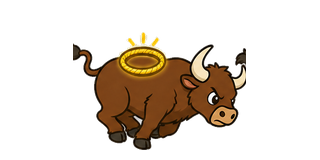
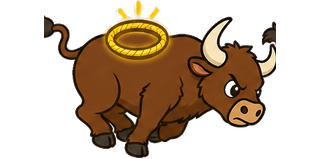
Keep Stampede Bull run frames at stun standing size.
Boss charge art was framed to the smaller trail-bull body height, so the
bull visibly shrank whenever he switched from stun idle into the run cycle.
Bake the boss run strip to the same ~159px footprint as the standing art
and keep sprite scale at one while charging or stunned.

diff --git a/tools/build_bull_frames.py b/tools/build_bull_frames.py
@@ -2,7 +2,8 @@
 
 Trail bull standing has no painted lasso ring. Boss standing stays
 `assets/world/boss_stampede_bull.png` (ring kept for the stampede fight).
-Run cycles are 4-frame strips keyed and framed to 320×160.
+Trail run cycles frame to 320×160 at trail body height. Boss run frames
+fill nearly the full canvas so they match the stun/idle standing size.
 
     python tools/build_bull_frames.py
 """
@@ -18,13 +19,24 @@ ROOT = Path(__file__).resolve().parent.parent
 SRC = ROOT / "assets" / "source" / "bull"
 OUT = ROOT / "assets" / "world"
 
-CANVAS = (320, 160)
-BASELINE = 150
-BODY_H = 118
+# Trail bulls (and cave lizards) share this smaller chibi footprint.
+TRAIL_CANVAS = (320, 160)
+TRAIL_BASELINE = 150
+TRAIL_BODY_H = 118
+# Stampede Bull stun art fills 320×159; run frames must match that on-screen size.
+BOSS_CANVAS = (320, 159)
+BOSS_BASELINE = 158
+BOSS_BODY_H = 158
 
 
-def _frame(img: Image.Image) -> Image.Image:
-	return frame_sprite(img, canvas=CANVAS, target_h=BODY_H, baseline=BASELINE)
+def _frame(
+	img: Image.Image,
+	*,
+	canvas: tuple[int, int],
+	target_h: int,
+	baseline: int,
+) -> Image.Image:
+	return frame_sprite(img, canvas=canvas, target_h=target_h, baseline=baseline)
 
 
 def _column_density(im: Image.Image, *, win: int = 8) -> list[float]:
@@ -55,7 +67,14 @@ def _valley_cuts(im: Image.Image, count: int = 4) -> list[int]:
 	return cuts
 
 
-def _save_strip(src_name: str, out_prefix: str) -> None:
+def _save_strip(
+	src_name: str,
+	out_prefix: str,
+	*,
+	canvas: tuple[int, int],
+	target_h: int,
+	baseline: int,
+) -> None:
 	keyed = cutout(str(SRC / src_name), level=200, sat=25)
 	cuts = _valley_cuts(keyed, 4)
 	inset = 10
@@ -67,7 +86,7 @@ def _save_strip(src_name: str, out_prefix: str) -> None:
 		if bbox:
 			cell = cell.crop(bbox)
 		path = OUT / f"{out_prefix}_run_{i}.png"
-		_frame(cell).save(path)
+		_frame(cell, canvas=canvas, target_h=target_h, baseline=baseline).save(path)
 		print("wrote", path.relative_to(ROOT))
 
 
@@ -80,11 +99,28 @@ def build() -> None:
 	if bbox:
 		stand = stand.crop(bbox)
 	stand_path = OUT / "trail_bull.png"
-	_frame(stand).save(stand_path)
+	_frame(
+		stand,
+		canvas=TRAIL_CANVAS,
+		target_h=TRAIL_BODY_H,
+		baseline=TRAIL_BASELINE,
+	).save(stand_path)
 	print("wrote", stand_path.relative_to(ROOT))
 
-	_save_strip("run_strip_no_ring.png", "trail_bull")
-	_save_strip("run_strip_boss.png", "boss_stampede_bull")
+	_save_strip(
+		"run_strip_no_ring.png",
+		"trail_bull",
+		canvas=TRAIL_CANVAS,
+		target_h=TRAIL_BODY_H,
+		baseline=TRAIL_BASELINE,
+	)
+	_save_strip(
+		"run_strip_boss.png",
+		"boss_stampede_bull",
+		canvas=BOSS_CANVAS,
+		target_h=BOSS_BODY_H,
+		baseline=BOSS_BASELINE,
+	)
 
 
 if __name__ == "__main__":

diff --git a/README.md b/README.md
@@ -2,7 +2,7 @@
 
 Child-friendly 2D western cowboy platformer (Godot **4.4**). Aimed at kids ~6: forgiving jumps, nonviolent lasso. **Classic mode** has no lives or game over; **Advanced Mode** (chosen in **Settings** before starting or continuing a slot) adds a three-life limit, badge milestones, and a game-over return to the start screen. Pick **Cowboy** or **Cowgirl** in Settings — the choice applies across all save slots. **German is the default language**; English is fully supported.
 
-**Content version:** `1.8.55` (see `content_version.txt`). Launchers reimport when this stamp changes.
+**Content version:** `1.8.56` (see `content_version.txt`). Launchers reimport when this stamp changes.
 
 This README is the **binding source of truth** for gameplay, level design, art, i18n, and audio. Agents and contributors must follow it (see [Agent / contributor rules](#agent--contributor-rules)).
 
@@ -126,7 +126,7 @@ Agents **must** honor these when editing levels or trail systems:
 - User-facing copy: wide trail gaps = **canyon**; fixed 128×64 dirt holes = **pit** (legacy node names like `Pit3` on scaled canyon hazards may remain internally).
 - **Pits:** workshop **Hazards** stamp; exact `pit.png` size; dirt-only placement; same fall/respawn/life rules as canyons (Bubble Shield does not save pit falls).
 - Bandits: downward jump stomp from above / lasso tie; any other contact hurts; **turn at plank edges** (do not walk off).
-- **Trail bulls / cave lizards:** trail bulls use ring-free standing art plus a short run cycle while charging/retreating (cave lizards keep lizard art); charge the player when nearby (always face the cowboy); at a **pit or canyon lip** they **turn around and run back ~8 cm** instead of tumbling in; workshop/campaign placement keeps them on **solid dirt only** (never on a pit mouth or canyon stamp); lasso or head stomp plays the full boss tying sequence (rope coils → legs bound → tip over → lying on the floor at the same on-screen size); side contact hurts. Stampede Bull boss keeps the painted back ring and uses its own run frames while charging.
+- **Trail bulls / cave lizards:** trail bulls use ring-free standing art plus a short run cycle while charging/retreating (cave lizards keep lizard art); charge the player when nearby (always face the cowboy); at a **pit or canyon lip** they **turn around and run back ~8 cm** instead of tumbling in; workshop/campaign placement keeps them on **solid dirt only** (never on a pit mouth or canyon stamp); lasso or head stomp plays the full boss tying sequence (rope coils → legs bound → tip over → lying on the floor at the same on-screen size); side contact hurts. Stampede Bull boss keeps the painted back ring and uses its own run frames while charging — baked at the same body height as the stun/idle standing art so he does not shrink mid-charge.
 - **Ninjas:** handcrafted **chibi cel-shaded sprites** in the same big-head / thick-ink style as the bandit (`tools/build_ninja_frames.py`: hooded head, red headband + obi, navy gi, 64×80); workshop stamp marks an **ambush anchor** — when the cowboy enters range, the ninja **appears ~12 columns (480 px) in front** of him, runs in with a **sword slash** on reach, **jumps pits and canyons** toward the cowboy (crouch + airborne jump frames), and throws hand-drawn **shuriken** at winged flyers; lasso or head stomp ties with a unique bound rope pose; **camp respawn** cancels appear/chase/jump and hides him back at the stamp post (unless already tied at that camp).
 - **Ninja jump height matches the cowboy's own apex** (derived from the live `Player.jump_velocity` / `Player.gravity`, not a hand-tuned constant), so a ninja can **hop up onto any plank / ledge the cowboy can reach** and step back down off a lip instead of stalling on it. Do not regress this to a fixed jump height that leaves planks unreachable.
 - **No cactus inside canyon mouths** or on hand-painted rim bands (keep clear of the rim body past the gap).
